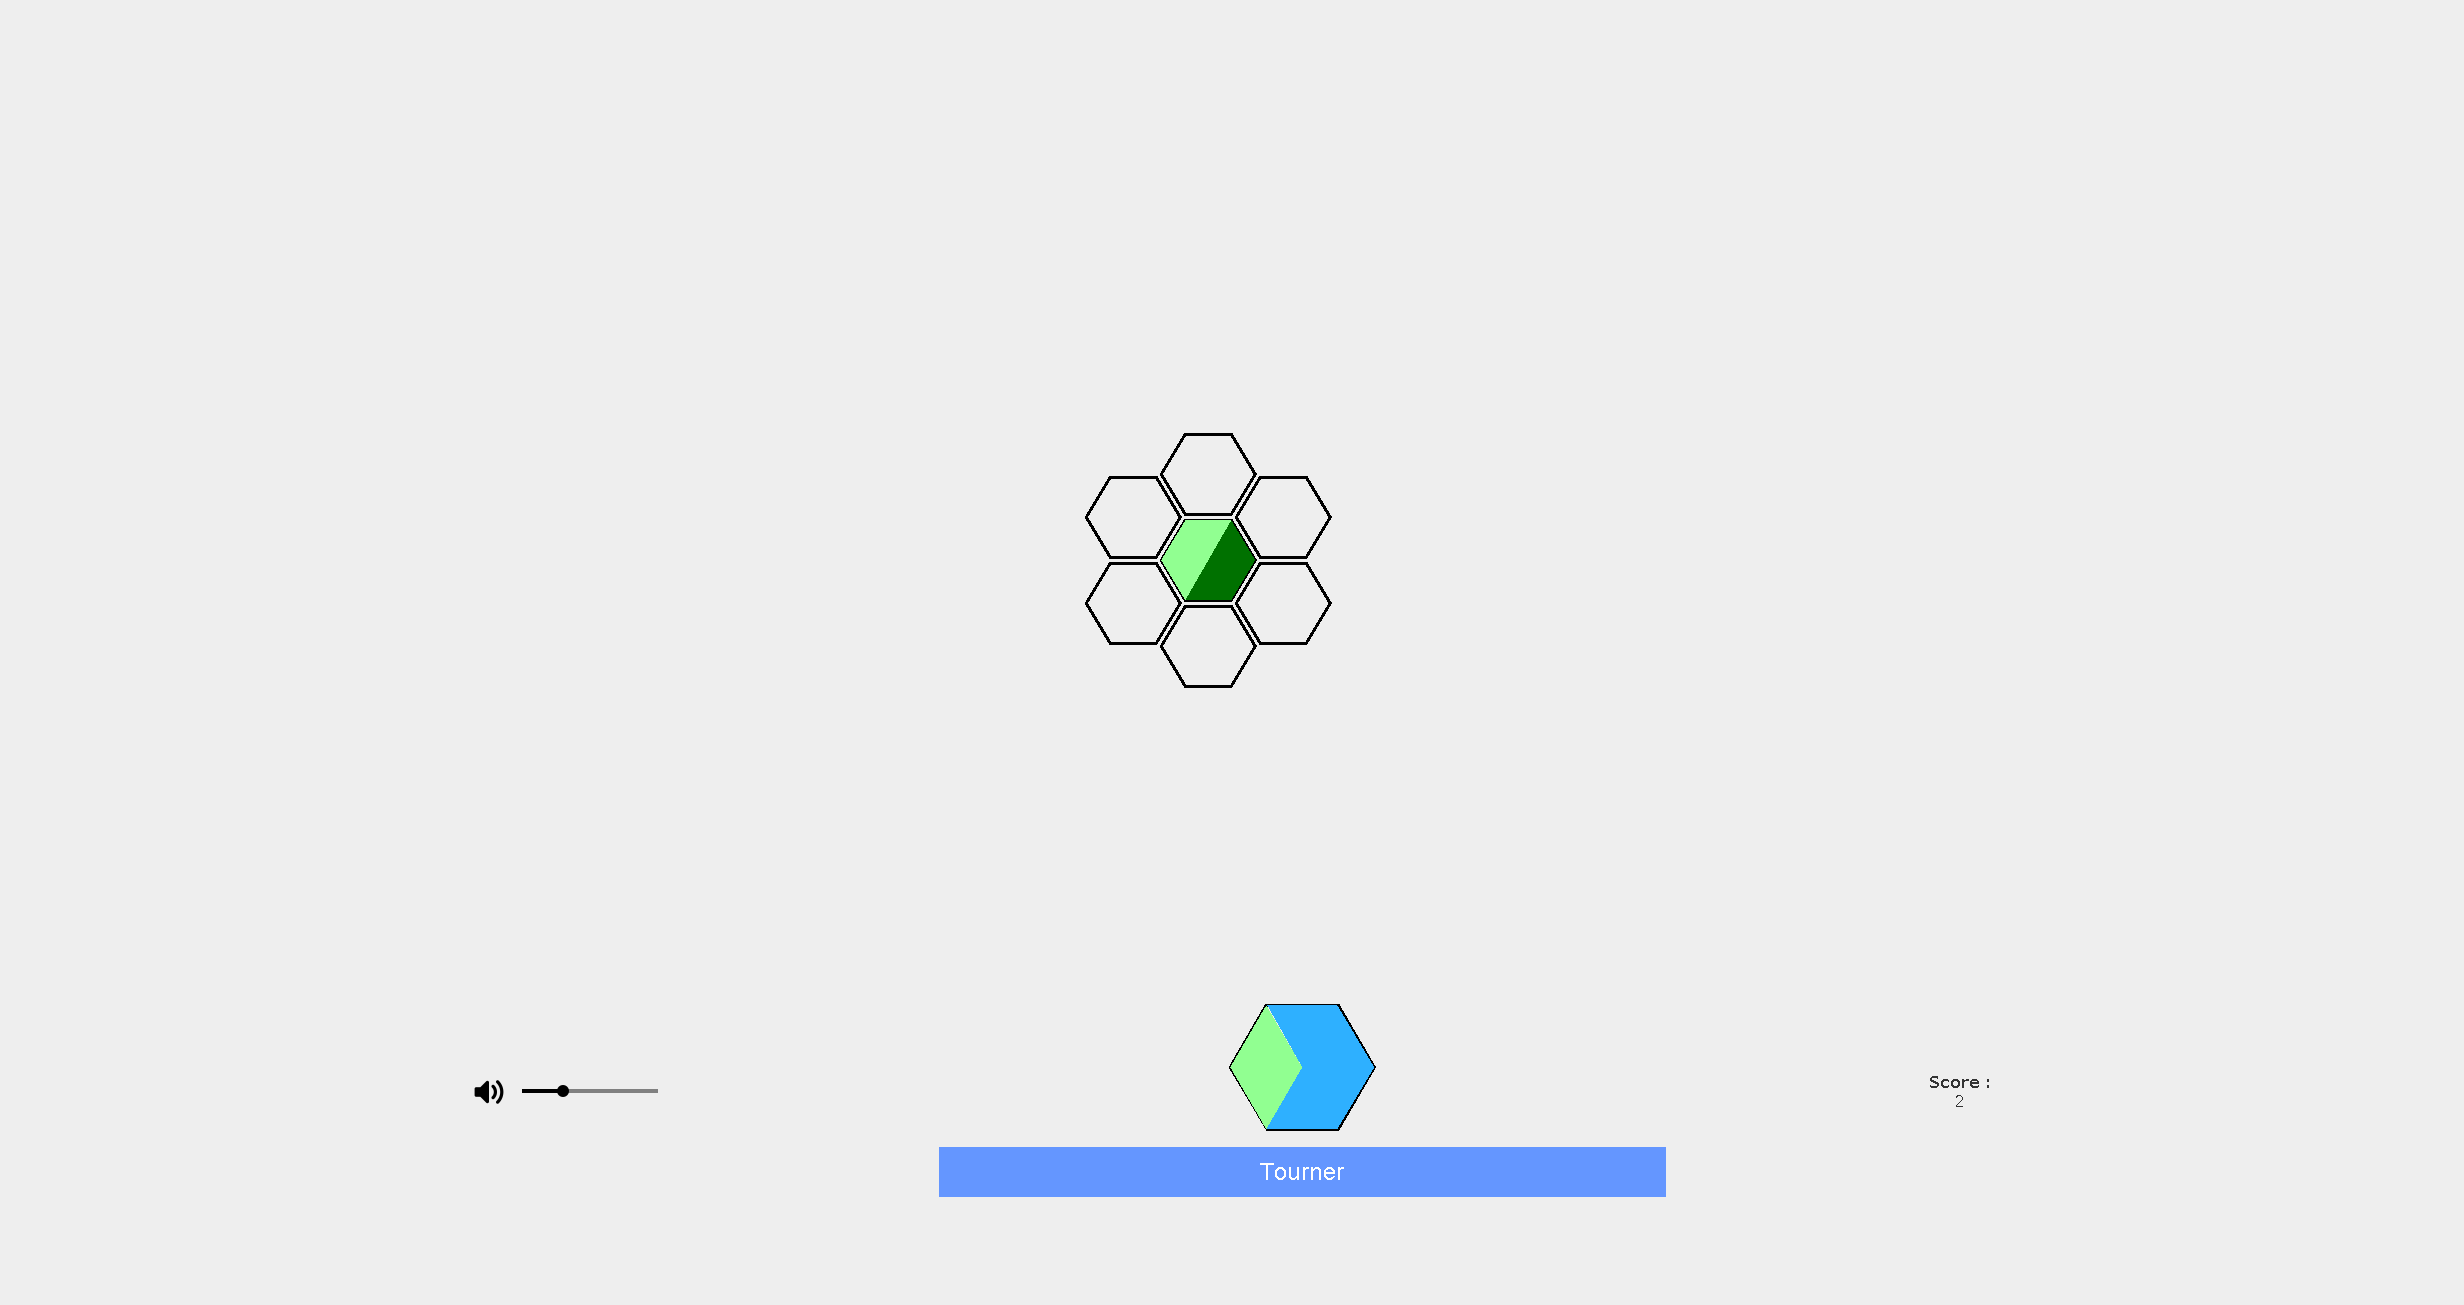
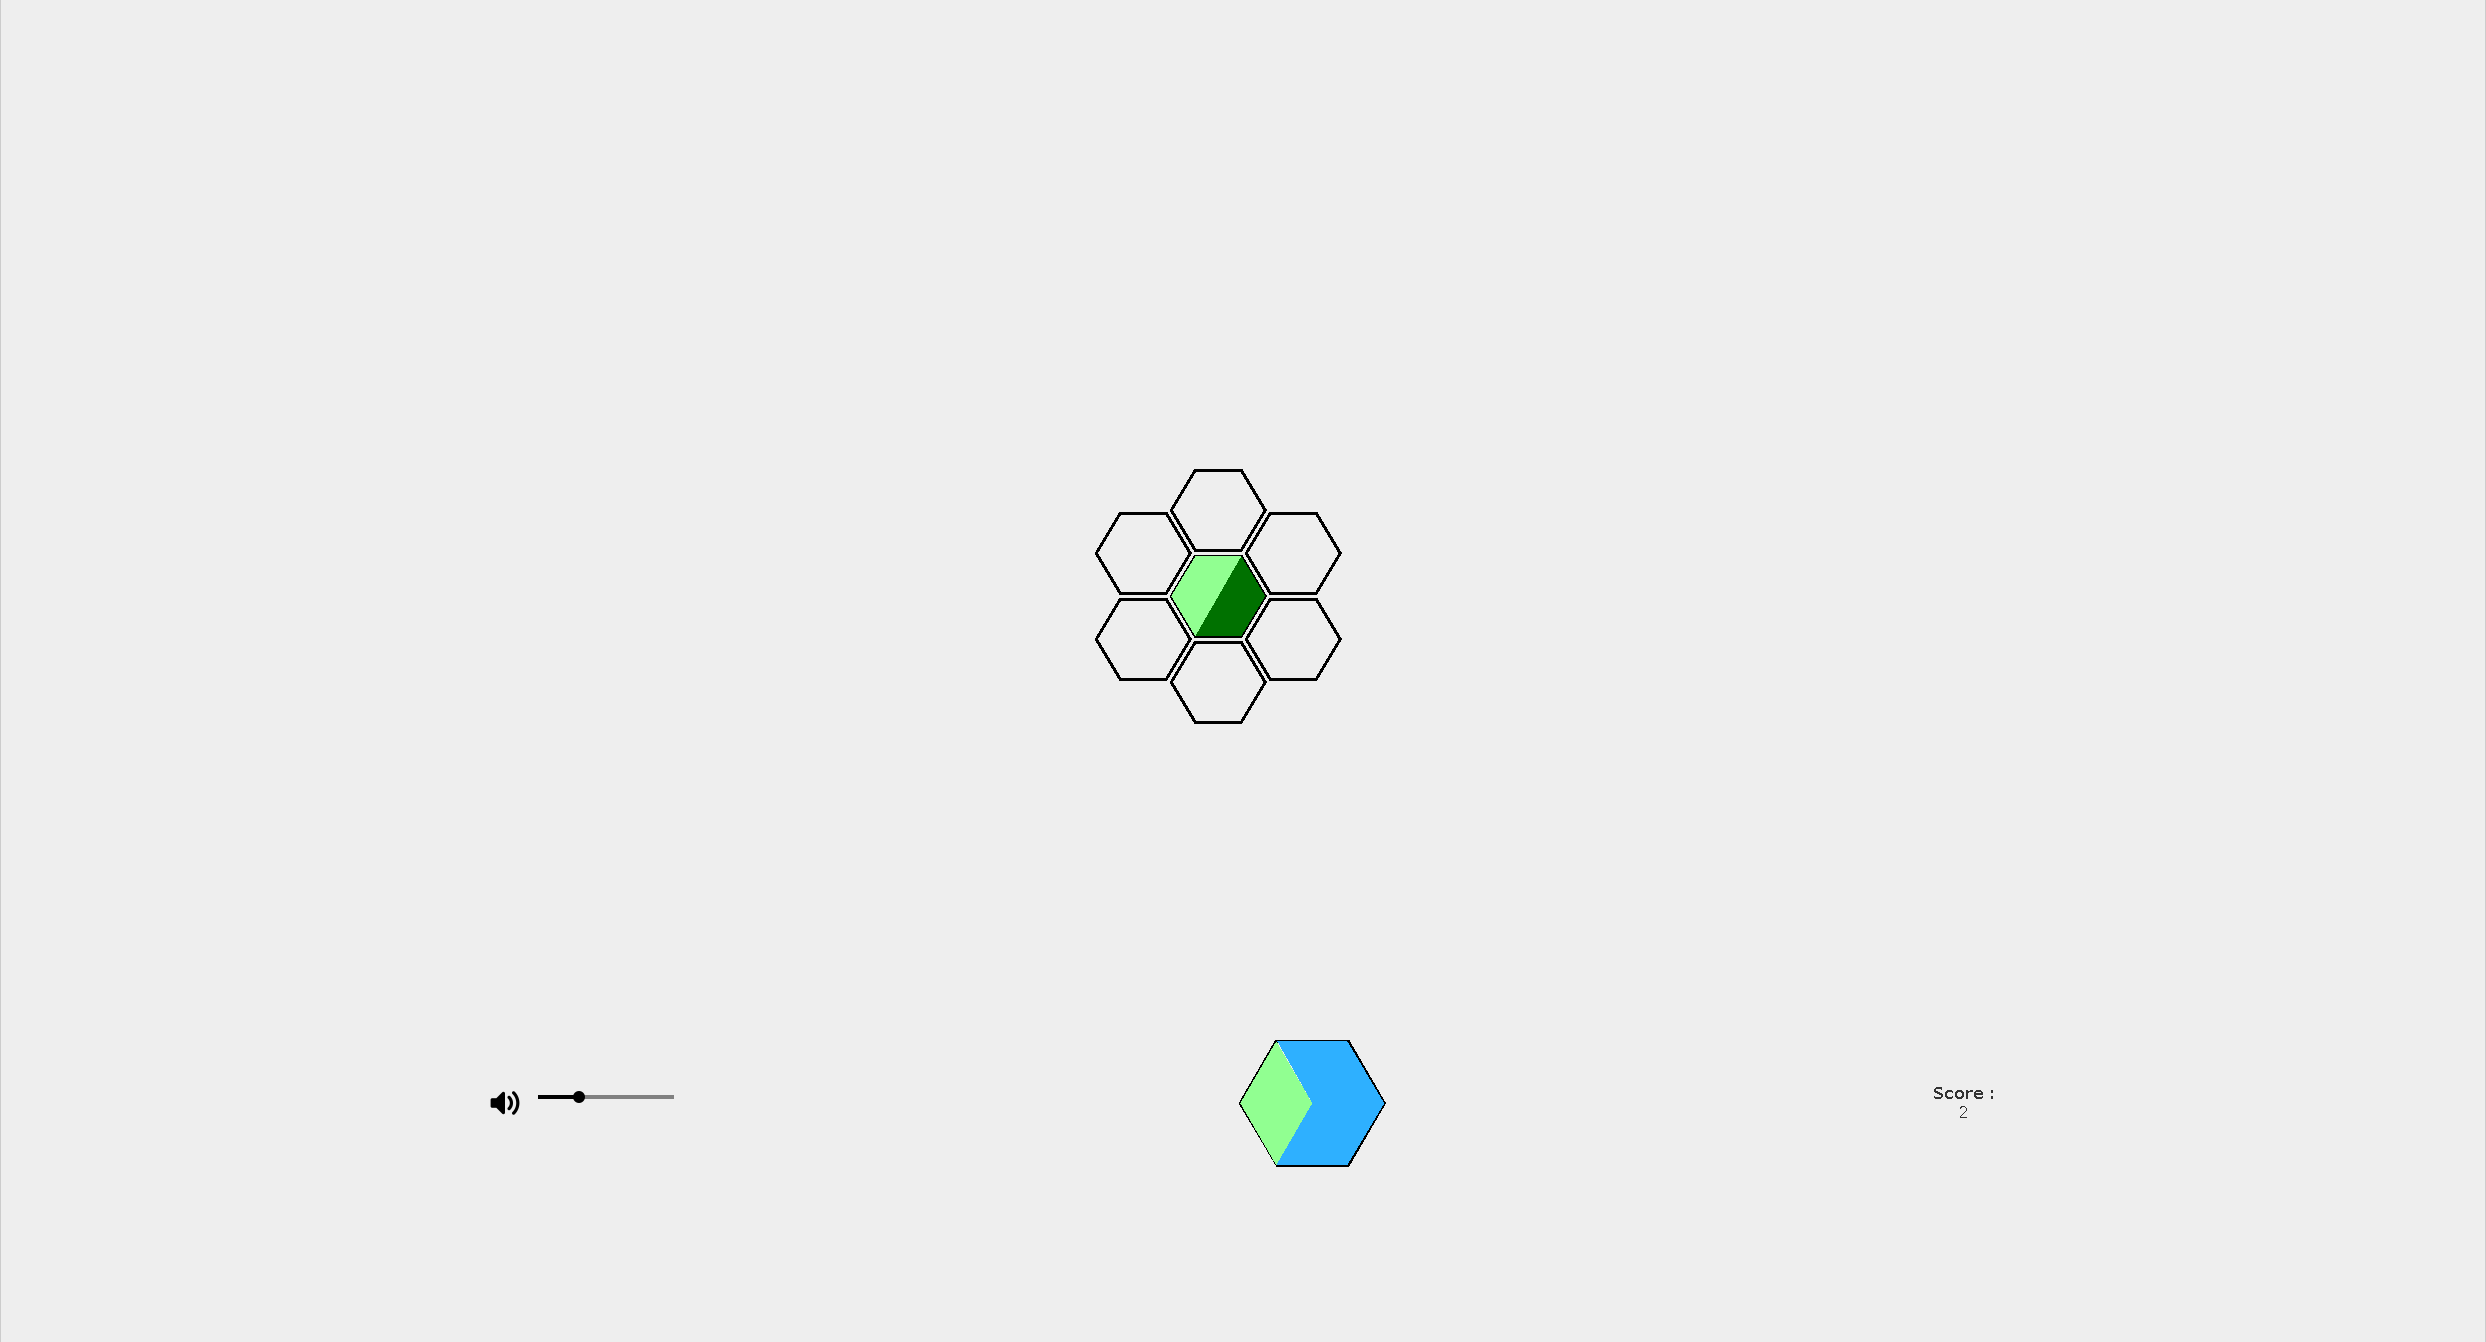
correction portfolio

diff --git a/src/About/About.tsx b/src/About/About.tsx
@@ -27,10 +27,10 @@ const About = () => {
                                     <span className="grandi">Je</span> <span className="grandi">m'appelle</span> <span className="grandi">Gaël</span> <span className="grandi">Oddos-Marcel,</span> <span className="grandi">et</span> <span className="grandi">je</span> <span className="grandi">suis</span> <span className="grandi">actuellement</span> <span className="grandi">en</span> <span className="grandi">deuxième</span> <span className="grandi">année</span> <span className="grandi">d'un</span> <span className="grandi">programme</span> <span className="grandi">en</span> <span className="grandi">alternance</span> <span className="grandi">dans</span> <span className="grandi">un</span> <span className="grandi">BUT</span> <span className="grandi">Informatique.</span> <span className="grandi">En</span> <span className="grandi">parallèle,</span> <span className="grandi">je</span> <span className="grandi">travaille</span> <span className="grandi">en</span> <span className="grandi">tant</span> <span className="grandi">que</span> <span className="grandi">développeur</span> <span className="grandi">front-end</span> <span className="grandi">chez</span> <span className="grandi">Net.Com,</span> <span className="grandi">une</span> <span className="grandi">agence</span> <span className="grandi">web.</span>
                                 </p>
                                 <p>
-                                    <span className="grandi">Je</span> <span className="grandi">suis</span> <span className="grandi">passionné</span> <span className="grandi">par</span> <span className="grandi">la</span> <span className="grandi">cybersécurité</span> <span className="grandi">et</span> <span className="grandi">les</span> <span className="grandi">nouvelles</span> <span className="grandi">technologies,</span> <span className="grandi">toujours</span> <span className="grandi">avide</span> <span className="grandi">de</span> <span className="grandi">nouveaux</span> <span className="grandi">défis</span> <span className="grandi">et</span> <span className="grandi">désireux</span> <span className="grandi">d'élargir</span> mes <span className="grandi">connaissances.</span> <span className="grandi">Je</span> <span className="grandi">suis</span> <span className="grandi">constamment</span> <span className="grandi">à</span> <span className="grandi">la</span> <span className="grandi">recherche</span> <span className="grandi">d'opportunités</span> <span className="grandi">pour</span> <span className="grandi">approfondir</span> <span className="grandi">mon</span> <span className="grandi">expertise</span> <span className="grandi">et</span> <span className="grandi">mettre</span> <span className="grandi">en</span> <span className="grandi">pratique</span> <span className="grandi">mes</span> <span className="grandi">compétences</span> <span className="grandi">sur</span> <span className="grandi">des</span> <span className="grandi">projets</span> <span className="grandi">concrets.</span>
+                                    <span className="grandi">Je</span> <span className="grandi">suis</span> <span className="grandi">passionné</span> <span className="grandi">par</span> <span className="grandi">l'informatique</span> <span className="grandi">et</span> <span className="grandi">les</span> <span className="grandi">nouvelles</span> <span className="grandi">technologies,</span> <span className="grandi">toujours</span> <span className="grandi">avide</span> <span className="grandi">de</span> <span className="grandi">nouveaux</span> <span className="grandi">défis</span> <span className="grandi">et</span> <span className="grandi">désireux</span> <span className="grandi">d'élargir</span> mes <span className="grandi">connaissances.</span> <span className="grandi">Je</span> <span className="grandi">suis</span> <span className="grandi">constamment</span> <span className="grandi">à</span> <span className="grandi">la</span> <span className="grandi">recherche</span> <span className="grandi">d'opportunités</span> <span className="grandi">pour</span> <span className="grandi">approfondir</span> <span className="grandi">mon</span> <span className="grandi">expertise</span> <span className="grandi">et</span> <span className="grandi">mettre</span> <span className="grandi">en</span> <span className="grandi">pratique</span> <span className="grandi">mes</span> <span className="grandi">compétences</span> <span className="grandi">sur</span> <span className="grandi">des</span> <span className="grandi">projets</span> <span className="grandi">concrets.</span>
                                 </p>
                                 <p>
-                                    <span className="grandi">Je</span> <span className="grandi">suis</span> <span className="grandi">enthousiaste</span> <span className="grandi">à</span> <span className="grandi">l'idée</span> <span className="grandi">de</span> <span className="grandi">rejoindre</span> <span className="grandi">une</span> <span className="grandi">école</span> <span className="grandi">d'ingénieurs</span> <span className="grandi">spécialisée</span> <span className="grandi">en</span> <span className="grandi">cybersécurité,</span> <span className="grandi">ainsi</span> <span className="grandi">que</span> <span className="grandi">de</span> <span className="grandi">trouver</span> <span className="grandi">une</span> <span className="grandi">entreprise</span> <span className="grandi">où</span> <span className="grandi">je</span> <span className="grandi">pourrai</span> <span className="grandi">poursuivre</span> <span className="grandi">mon</span> <span className="grandi">expérience</span> <span className="grandi">en</span> <span className="grandi">alternance.</span> <span className="grandi">Mon</span> <span className="grandi">objectif</span> <span className="grandi">est</span> <span className="grandi">de</span> <span className="grandi">combiner</span> <span className="grandi">mes</span> <span className="grandi">compétences</span> <span className="grandi">techniques</span> <span className="grandi">et</span> <span className="grandi">ma</span> <span className="grandi">passion</span> <span className="grandi">pour</span> <span className="grandi">l'innovation</span> <span className="grandi">afin</span> <span className="grandi">de</span> <span className="grandi">contribuer</span> <span className="grandi">à</span> <span className="grandi">l'évolution</span> <span className="grandi">constante</span> <span className="grandi">du</span> <span className="grandi">paysage</span> <span className="grandi">numérique.</span>
+                                    <span className="grandi">Je</span> <span className="grandi">suis</span> <span className="grandi">enthousiaste</span> <span className="grandi">à</span> <span className="grandi">l'idée</span> <span className="grandi">de</span> <span className="grandi">rejoindre</span> <span className="grandi">l'école</span> <span className="grandi">d'ingénieurs</span> <span className="grandi">en</span> <span className="grandi">informatique</span> <span className="grandi">ENSIIE,</span> <span className="grandi">pour</span> <span className="grandi">laquelle</span> <span className="grandi">je</span> <span className="grandi">suis</span> <span className="grandi">admissible,</span>  <span className="grandi">ainsi</span> <span className="grandi">que</span> <span className="grandi">de</span> <span className="grandi">trouver</span> <span className="grandi">une</span> <span className="grandi">entreprise</span> <span className="grandi">où</span> <span className="grandi">je</span> <span className="grandi">pourrai</span> <span className="grandi">poursuivre</span> <span className="grandi">mon</span> <span className="grandi">expérience</span> <span className="grandi">en</span> <span className="grandi">alternance.</span> <span className="grandi">Mon</span> <span className="grandi">objectif</span> <span className="grandi">est</span> <span className="grandi">de</span> <span className="grandi">combiner</span> <span className="grandi">mes</span> <span className="grandi">compétences</span> <span className="grandi">techniques</span> <span className="grandi">et</span> <span className="grandi">ma</span> <span className="grandi">passion</span> <span className="grandi">pour</span> <span className="grandi">l'innovation</span> <span className="grandi">afin</span> <span className="grandi">de</span> <span className="grandi">contribuer</span> <span className="grandi">à</span> <span className="grandi">l'évolution</span> <span className="grandi">constante</span> <span className="grandi">du</span> <span className="grandi">numérique.</span>
                                 </p>
                             </div>
                             <div className='image'>

diff --git a/src/fond/fond.tsx b/src/fond/fond.tsx
@@ -31,6 +31,13 @@ const Fond: React.FC = () => {
 
             let radius = 96;
             const newPixelAnimationState = new Map(pixelAnimationState);
+            if (window.innerWidth < 1200 && window.innerWidth > 700) {
+                radius = 50;
+            } else if (window.innerWidth < 700 && window.innerWidth > 500) {
+                radius = 50;
+            } else if (window.innerWidth < 500) {
+                radius = 40;
+            }
 
             for (let row = 0; row < rows; row++) {
                 for (let col = 0; col < cols; col++) {

diff --git a/src/index.css b/src/index.css
@@ -26,7 +26,7 @@ main {
 /* Styles de base pour le container */
 .container {
     width: 100%;
-    max-width: 1700px; /* Limite la largeur maximale */
+    max-width: 1900px; /* Limite la largeur maximale */
     min-height: 100vh;
     margin: 0 auto; /* Centre le contenu */
     padding: 0 20px; /* Ajoute un padding latéral */

diff --git a/src/About/about.css b/src/About/about.css
@@ -23,6 +23,7 @@ body{
 
 .grandi:hover{
     transform: scale(1.2);
+    cursor: pointer;
 }
 
 .texte p{
